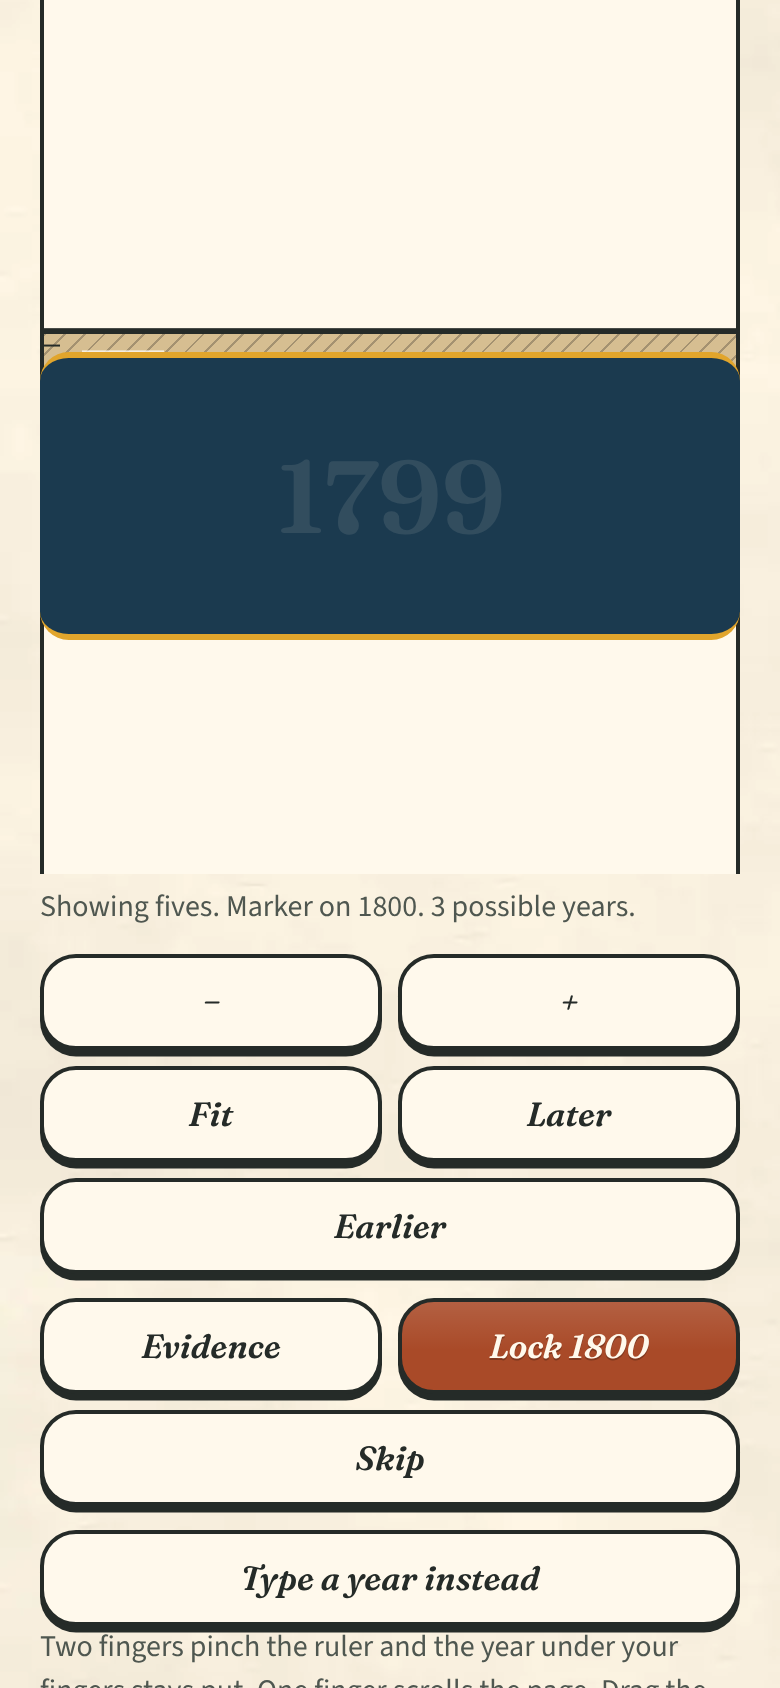
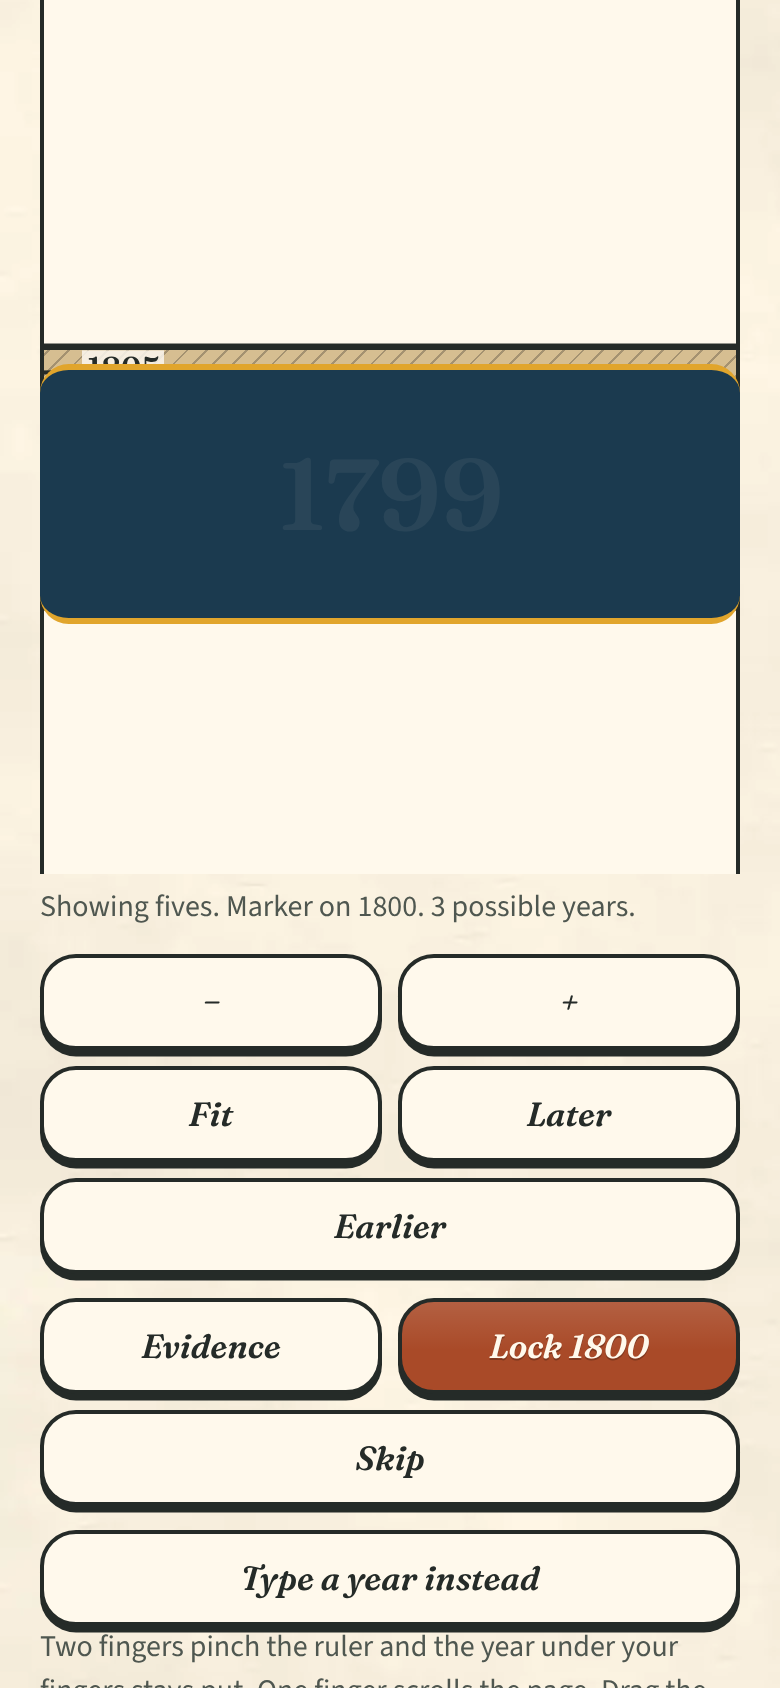
Stage 11: installable PWA with offline play, update-waits and kill switch (16-check browser proof)
Manifest, icons, versioned service worker, build-sw generator, offline e2e in CI, stage 11 progress log.

Claude-Session: https://claude.ai/code/session_01FMdfxLbxSyrVaXBuTRDsdK

Changed region(s): [[0.0308, 0.3389, 0.9538, 0.4005], [0.0308, 0.1848, 0.9538, 0.2464]]

diff --git a/app/eslint.config.js b/app/eslint.config.js
@@ -1,6 +1,6 @@
 // ESLint flat config. Baseline for the gray-box; the production setup adds typescript-eslint (supports TypeScript below 6.1).
 import js from '@eslint/js';
-const browser = { window: 'readonly', document: 'readonly', location: 'readonly', history: 'readonly', navigator: 'readonly', localStorage: 'readonly', sessionStorage: 'readonly', fetch: 'readonly', performance: 'readonly', requestAnimationFrame: 'readonly', cancelAnimationFrame: 'readonly', setTimeout: 'readonly', clearTimeout: 'readonly', matchMedia: 'readonly', getComputedStyle: 'readonly', ResizeObserver: 'readonly', IntersectionObserver: 'readonly', URL: 'readonly', URLSearchParams: 'readonly', Blob: 'readonly', Event: 'readonly', NodeFilter: 'readonly', scrollTo: 'readonly', scrollY: 'readonly', innerWidth: 'readonly', innerHeight: 'readonly', devicePixelRatio: 'readonly', addEventListener: 'readonly', removeEventListener: 'readonly', getSelection: 'readonly', prompt: 'readonly', console: 'readonly', Date: 'readonly' };
+const browser = { window: 'readonly', document: 'readonly', location: 'readonly', history: 'readonly', navigator: 'readonly', localStorage: 'readonly', sessionStorage: 'readonly', fetch: 'readonly', performance: 'readonly', requestAnimationFrame: 'readonly', cancelAnimationFrame: 'readonly', setTimeout: 'readonly', clearTimeout: 'readonly', matchMedia: 'readonly', getComputedStyle: 'readonly', ResizeObserver: 'readonly', IntersectionObserver: 'readonly', URL: 'readonly', URLSearchParams: 'readonly', Blob: 'readonly', Event: 'readonly', NodeFilter: 'readonly', scrollTo: 'readonly', scrollY: 'readonly', innerWidth: 'readonly', innerHeight: 'readonly', devicePixelRatio: 'readonly', addEventListener: 'readonly', removeEventListener: 'readonly', getSelection: 'readonly', prompt: 'readonly', console: 'readonly', Date: 'readonly', caches: 'readonly' };
 export default [
   js.configs.recommended,
   { files: ['src/**/*.js', 'motion/**/*.js', 'reveal/**/*.js'], languageOptions: { ecmaVersion: 2023, sourceType: 'module', globals: browser }, rules: { 'no-unused-vars': ['warn', { args: 'none', caughtErrors: 'none' }], 'no-empty': ['error', { allowEmptyCatch: true }] } },

diff --git a/app/src/ui/app.js b/app/src/ui/app.js
@@ -423,9 +423,24 @@ function setBanner() {
   if (!persistent) parts.push(t('unsaved'));
   if (!navigator.onLine) parts.push(t('offline'));
   if (ui.resumeNote) parts.push(ui.resumeNote);
+  if (ui.updateNote) parts.push(ui.updateNote);
   $('#banner').textContent = parts.join(' ');
 }
 window.addEventListener('online', setBanner); window.addEventListener('offline', setBanner);
+
+// Offline support (ADR-001): register the service worker on real hosts, or on localhost only with ?sw=1 so development and tests are not served stale files.
+// A new version waits until the app is closed; the banner says so and never interrupts a case. ?nosw removes any worker.
+function registerWorker() {
+  if (!('serviceWorker' in navigator)) return;
+  const local = ['localhost', '127.0.0.1', '[::1]'].includes(location.hostname);
+  if (params.has('nosw') || (local && !params.has('sw'))) { navigator.serviceWorker.getRegistrations().then(rs => rs.forEach(r => r.unregister())).catch(() => {}); return; }
+  navigator.serviceWorker.register('sw.js').then(reg => {
+    reg.addEventListener('updatefound', () => {
+      const w = reg.installing;
+      if (w) w.addEventListener('statechange', () => { if (w.state === 'installed' && navigator.serviceWorker.controller) { ui.updateNote = t('updateReady'); setBanner(); } });
+    });
+  }).catch(() => { /* no worker: the app still works online */ });
+}
 
 async function boot() {
   const bs = browserStorage(); storage = bs.storage; persistent = bs.persistent;
@@ -447,6 +462,7 @@ async function boot() {
   if (!daily.state) { ui.heldStatus = status; ui.route = 'held'; setBanner(); return render(); }
   if (status === 'resumed' && daily.state.status === 'active' && (daily.state.cursor > 0 || daily.state.cases[0].spent > 0 || daily.state.cases[0].status !== 'active')) ui.resumeNote = t('resumeBanner', { n: daily.state.cursor + 1 });
   setBanner();
+  registerWorker();
   ui.route = settings.onboarded ? 'trail' : 'onboarding';
   const h = location.hash.replace('#/', '').split('/')[0];
   if (settings.onboarded && ['practice', 'archive', 'settings'].includes(h)) ui.route = h;

diff --git a/app/sw.js b/app/sw.js
@@ -1,0 +1,40 @@
+// Timehunt service worker (ADR-001, OPERATIONS_POLICIES 6.2). Precached shell for offline play, network-first for the daily pack, a kill switch,
+// and no forced takeover: a new version waits until the app is closed, so an update can never interrupt a case.
+importScripts('sw-manifest.js'); // sets self.__BUILD, self.__PRECACHE, self.__KILL (generated by scripts/build-sw.mjs)
+const CACHE = 'timehunt-' + self.__BUILD;
+const PACK = /\/data\/[^/]+\.json$/;
+
+self.addEventListener('install', e => {
+  if (self.__KILL) return e.waitUntil(self.skipWaiting());
+  e.waitUntil(caches.open(CACHE).then(c => c.addAll(self.__PRECACHE.map(u => new Request(u, { cache: 'reload' })))));
+});
+
+self.addEventListener('activate', e => e.waitUntil((async () => {
+  if (self.__KILL) {
+    for (const k of await caches.keys()) await caches.delete(k);
+    await self.registration.unregister();
+    for (const c of await self.clients.matchAll({ type: 'window' })) c.navigate(c.url);
+    return;
+  }
+  for (const k of await caches.keys()) if (k.startsWith('timehunt-') && k !== CACHE) await caches.delete(k);
+  await self.clients.claim();
+})()));
+
+self.addEventListener('fetch', e => {
+  const req = e.request, url = new URL(req.url);
+  if (self.__KILL || req.method !== 'GET' || url.origin !== location.origin) return;
+  if (PACK.test(url.pathname)) {
+    // The day's pack: prefer fresh, fall back to the last good copy so a day can be played offline.
+    e.respondWith((async () => {
+      try { const res = await fetch(req); if (res.ok) { (await caches.open(CACHE)).put(url.pathname, res.clone()); } return res; }
+      catch (err) { const hit = await caches.match(url.pathname, { ignoreSearch: true }); if (hit) return hit; throw err; }
+    })());
+    return;
+  }
+  e.respondWith((async () => {
+    const hit = await caches.match(req, { ignoreSearch: true });
+    if (hit) return hit;
+    try { return await fetch(req); }
+    catch (err) { if (req.mode === 'navigate') { const shell = await caches.match('index.html'); if (shell) return shell; } throw err; }
+  })());
+});

diff --git a/app/sw-manifest.js b/app/sw-manifest.js
@@ -1,0 +1,53 @@
+// Generated by scripts/build-sw.mjs. Do not edit.
+self.__BUILD = 'd6e57d5b9700';
+self.__KILL = false;
+self.__PRECACHE = [
+ "./",
+ "assets/characters/guide-back.webp",
+ "assets/characters/guide-clue.webp",
+ "assets/characters/guide-discovery.webp",
+ "assets/characters/guide-earlier.webp",
+ "assets/characters/guide-idle.webp",
+ "assets/characters/guide-lantern-map.webp",
+ "assets/characters/guide-later.webp",
+ "assets/characters/guide-rest.webp",
+ "assets/characters/guide-uncertain.webp",
+ "assets/scenes/banner-aqueduct.webp",
+ "assets/scenes/banner-city.webp",
+ "assets/scenes/banner-coast.webp",
+ "assets/scenes/banner-desert.webp",
+ "assets/scenes/banner-mountain.webp",
+ "assets/scenes/home-hero.webp",
+ "assets/scenes/reveal-cloud-edge.webp",
+ "assets/textures/case-frame-ornaments.webp",
+ "assets/textures/map-green.webp",
+ "assets/textures/paper-grain.webp",
+ "assets/textures/stipple.webp",
+ "atlas.css",
+ "data/daily-pack-draft.json",
+ "fonts/archivo-latin-wdth-italic.woff2",
+ "fonts/fraunces-latin-600-italic.woff2",
+ "fonts/fraunces-latin-600-normal.woff2",
+ "fonts/fraunces-latin-800-italic.woff2",
+ "fonts/source-sans-3-latin-400-normal.woff2",
+ "fonts/source-sans-3-latin-600-normal.woff2",
+ "fonts/source-sans-3-latin-700-normal.woff2",
+ "icons/apple-touch-icon.png",
+ "icons/icon-192.png",
+ "icons/icon-512.png",
+ "icons/maskable-512.png",
+ "index.html",
+ "manifest.webmanifest",
+ "src/engine/canon.js",
+ "src/engine/engine.js",
+ "src/engine/pack.js",
+ "src/engine/rng.js",
+ "src/engine/rules.js",
+ "src/engine/years.js",
+ "src/store/session.js",
+ "src/store/storage.js",
+ "src/ui/app.js",
+ "src/ui/art.js",
+ "src/ui/strings.js",
+ "ui.css"
+];

diff --git a/app/test/sw.test.js b/app/test/sw.test.js
@@ -1,0 +1,20 @@
+import { test } from 'node:test';
+import assert from 'node:assert/strict';
+import { readFileSync } from 'node:fs';
+import { fileURLToPath } from 'node:url';
+import { join, dirname } from 'node:path';
+import { manifestText, precacheList } from '../scripts/build-sw.mjs';
+
+const root = join(dirname(fileURLToPath(import.meta.url)), '..');
+
+test('sw-manifest.js is current: run `npm run build:sw` after changing any shipped file', () => {
+  assert.equal(readFileSync(join(root, 'sw-manifest.js'), 'utf8'), manifestText(), 'sw-manifest.js is stale');
+});
+test('the offline shell covers every file the game needs and nothing dev-only', () => {
+  const list = precacheList();
+  for (const f of ['index.html', 'ui.css', 'atlas.css', 'src/ui/app.js', 'src/engine/engine.js', 'data/daily-pack-draft.json', 'manifest.webmanifest', 'icons/icon-192.png', 'assets/characters/guide-idle.webp', 'assets/scenes/home-hero.webp', 'assets/textures/map-green.webp']) assert.ok(list.includes(f), f);
+  for (const f of list) assert.ok(!/(^|\/)(test|scripts|fixtures|node_modules|motion|reveal|atlas)\//.test(f), 'dev-only file in the offline shell: ' + f);
+});
+test('the committed manifest is never a kill switch', () => {
+  assert.match(readFileSync(join(root, 'sw-manifest.js'), 'utf8'), /__KILL = false/);
+});

diff --git a/app/src/ui/strings.js b/app/src/ui/strings.js
@@ -6,6 +6,7 @@ const EN = {
   loading: "Loading today's cases",
   draftBanner: 'Draft pack, not publishable. Sample content for testing.',
   offline: 'You are offline. You can keep playing. Sources open when you are back online.',
+  updateReady: 'A new version is ready. It will load the next time you open the app.',
   unsaved: 'Progress cannot be saved in this browser mode.',
   resumeBanner: 'Welcome back. You are on case {n} of 10.',
   navToday: 'Today', navPractice: 'Practice', navArchive: 'Archive', navSettings: 'Settings',

diff --git a/app/index.html b/app/index.html
@@ -4,6 +4,10 @@
 <meta charset="utf-8">
 <meta name="viewport" content="width=device-width,initial-scale=1">
 <title>Timehunt, The Daily Ten</title>
+<link rel="manifest" href="manifest.webmanifest">
+<meta name="theme-color" content="#274B41">
+<link rel="apple-touch-icon" href="icons/apple-touch-icon.png">
+<link rel="icon" type="image/png" href="icons/icon-192.png">
 <link rel="stylesheet" href="ui.css">
 <link rel="stylesheet" href="atlas.css">
 </head>

diff --git a/docs/STAGE_11_SLICE.md b/docs/STAGE_11_SLICE.md
@@ -1,0 +1,26 @@
+# Stage 11: complete polished vertical slice (progress log)
+
+Status: **IN PROGRESS.** Not ready for `APPROVE STAGE 11`. This file records what is built and what is still missing against the Stage 11 list in `TIMEHUNT_MASTER_PROMPT.md`.
+
+## Done so far (2026-11-24)
+| Item | State | Evidence |
+|---|---|---|
+| Real illustrated art in the game: guide poses, home scene, per-case banners, textures | Built; rights NOT cleared (`docs/atlas/ASSET_RIGHTS.md`) | `docs/atlas/contact-sheet.png`, `banners-sheet.png` |
+| Atlas look on the game, Motion and Reveal prototypes | Built | 78/78 UI, 60/60 motion, 72/72 reveal checks, 0 axe violations |
+| Installable app: manifest, icons, `display: standalone` | Built; **install prompt not tried on a real phone** | `e2e-offline.mjs` |
+| Offline play: versioned precache (47 files, 2.4 MB), network-first pack, update waits, kill switch | Built and tested in Chromium | `e2e-offline.mjs` 16/16 |
+| Onboarding, Evidence, Lock, miss, solve, shared Insight, Practice, share text, settings, accessibility | Existing from Stages 4 to 7, restyled | `e2e-ui.mjs` |
+
+## Still to do before the Stage 11 checkpoint
+1. **Three connected cases as part of the ten-case trail** with the real shared bank and final state shape, and a feature flag to switch provisional economy variants without contradictory labels.
+2. **One World Reveal story inside the game flow** (today the reveal prototype is a separate page).
+3. **Share preview** screen (today the share is plain text on the finish screen).
+4. **Sources and rights:** a source manifest for the slice.
+5. **Real-phone test of one-hand play, install and offline** (needs a phone and a person; Q-53 to Q-56, Q-61).
+6. **Deliverables:** code review, annotated interaction video, UI consistency audit, performance report (release build on a phone), decisions for the full ten-case build.
+7. Rights for every art file (Q-70).
+
+## Known limits
+- Install and offline are proven in emulated Chromium only. iOS Safari behaviour (install, storage eviction) is unverified.
+- Art is generated and partly upscaled; sharpness on large screens is untested.
+- Service worker caching ignores query strings, so the `?v=` cache-busters on image URLs do nothing offline; the build id in the cache name is the real version.

diff --git a/docs/DECISIONS.md b/docs/DECISIONS.md
@@ -253,3 +253,4 @@ Status values: **FIXED** (user decision), **PROVISIONAL** (user-named but must b
 | D-085 | 2026-11-24 | Motion and Reveal prototypes adopt the Atlas look through one shared stylesheet (`app/proto-atlas.css`) and the banner header. | PROPOSED | User request (Q-68) | Separate restyle | n/a |
 | D-086 | 2026-11-24 | Each case shows one of five landscape banners (aqueduct, mountain, coast, city, desert), assigned by hand in `app/src/ui/app.js`. They are decorative archetypes and are not evidence of where or how an event happened; the mapping can be changed freely. | PROPOSED | `app/src/ui/app.js` BANNER | One banner for all, or per-case commissioned art | Real per-case art |
 | D-087 | 2026-11-24 | Textures installed: `paper-grain` replaces the generated grain; `map-green` plus `case-frame-ornaments` frame the case screens; `stipple` marks ruled-out years. Asset budget now 2.0 MB of images. | PROPOSED | `atlas.css` | Code-drawn textures | Device profiling shows weight problems |
+| D-088 | 2026-11-24 | The app ships as an installable PWA: manifest, icons from the guide's head, versioned service worker. Registered on real hosts, or on localhost only with `?sw=1`. A new version waits and never interrupts; `build:sw --kill` produces a worker that removes itself and its caches. | PROPOSED | ADR-001, `e2e-offline.mjs` | No offline support; skipWaiting updates | A device test shows install or storage problems |

diff --git a/docs/CHANGELOG.md b/docs/CHANGELOG.md
@@ -81,3 +81,6 @@
 ## Supplied art installed (2026-11-24)
 - `design/art-originals/` (archive), `app/assets/characters`, `app/assets/scenes`; UI uses real illustrations for the guide poses, home hero and case banner.
 - Motion and Reveal restyled via `app/proto-atlas.css`. Screenshots in `docs/atlas/` and `docs/atlas/protos/`. D-084, D-085.
+
+## Stage 11, installable and offline (2026-11-24)
+- Added `app/manifest.webmanifest`, `app/icons/`, `app/sw.js`, `scripts/build-sw.mjs` (generates `sw-manifest.js`), `scripts/e2e-offline.mjs` (16 checks), `test/sw.test.js`. `docs/STAGE_11_SLICE.md` tracks what remains. D-088.
